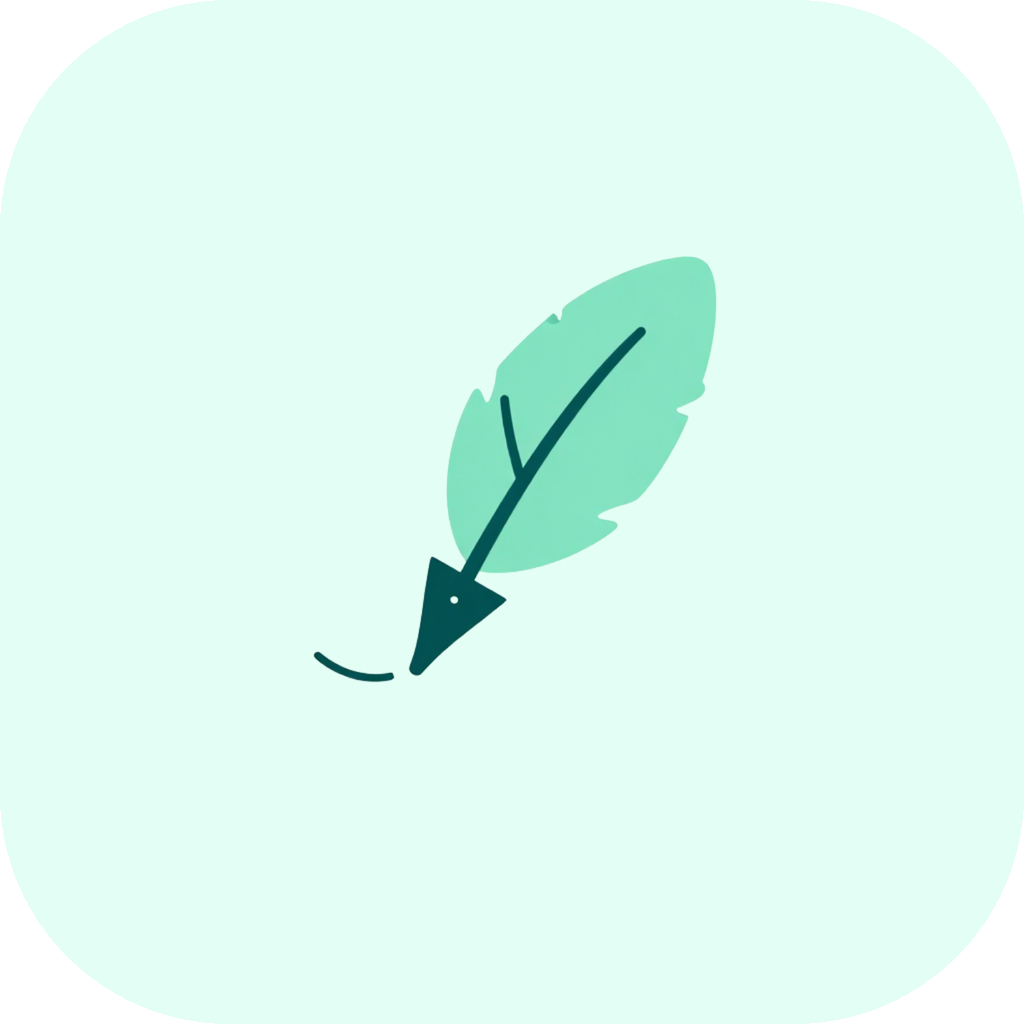
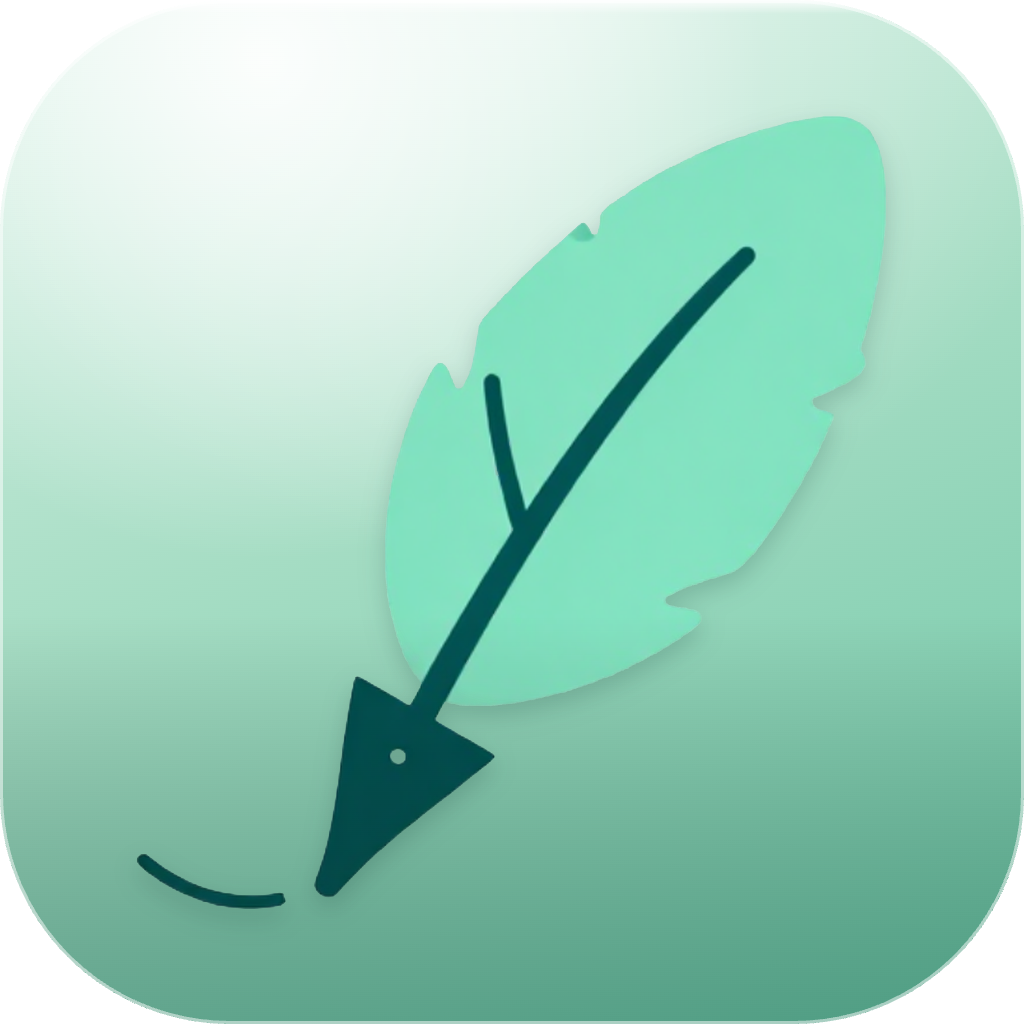
feat: 아이콘 피드백 반영 — Dock 깃펜 확대·그라데이션, 헤더 로고, 앱 이름
- Dock 앱 아이콘: 깃펜을 캔버스의 78%로 확대(배경 위 합성), 배경에 은은한
  민트 그라데이션 적용(단색 → 깊이감).
- 메인 윈도우 헤더("Minto" 옆)에 컬러 깃펜 로고(LogoMark) 추가.
  AppAssets.logoMark로 로드, 실패 시 로고만 생략하고 텍스트 유지.
- 앱 표시명 minto2 → Minto (CFBundleName). 상단 메뉴바·Finder 표시명 교정.
  앱 메뉴(🍎 옆) 아이콘은 macOS가 미지원이라 이름만 변경.

diff --git a/Sources/Minto/UI/MeetingLibraryView.swift b/Sources/Minto/UI/MeetingLibraryView.swift
@@ -343,12 +343,20 @@ public struct MeetingLibraryView: View {
     }
 
     private var headerTitle: some View {
-        VStack(alignment: .leading, spacing: 3) {
-            Text("Minto")
-                .font(.system(size: 20, weight: .bold))
-            Text(isSearching ? "필요한 회의와 근거를 찾고 있어요" : "회의를 찾거나 새로 시작하세요")
-                .font(.system(size: 12))
-                .foregroundColor(.secondary)
+        HStack(spacing: 10) {
+            if let logo = AppAssets.logoMark {
+                Image(nsImage: logo)
+                    .resizable()
+                    .aspectRatio(contentMode: .fit)
+                    .frame(width: 34, height: 34)
+            }
+            VStack(alignment: .leading, spacing: 3) {
+                Text("Minto")
+                    .font(.system(size: 20, weight: .bold))
+                Text(isSearching ? "필요한 회의와 근거를 찾고 있어요" : "회의를 찾거나 새로 시작하세요")
+                    .font(.system(size: 12))
+                    .foregroundColor(.secondary)
+            }
         }
         .fixedSize(horizontal: true, vertical: false)
     }

diff --git a/Sources/Minto/App/AppAssets.swift b/Sources/Minto/App/AppAssets.swift
@@ -16,6 +16,9 @@ public enum AppAssets {
     /// Dock·Finder용 컬러 앱 아이콘(풀컬러, 라운딩 포함).
     public static let appIcon: NSImage? = bundleImage(named: "AppIcon")
 
+    /// 앱 내부 UI(메인 윈도우 헤더 등)용 컬러 깃펜 로고(배경 없음).
+    public static let logoMark: NSImage? = bundleImage(named: "LogoMark")
+
     private static func bundleImage(named name: String) -> NSImage? {
         guard let url = Bundle.module.url(forResource: name, withExtension: "png") else {
             return nil